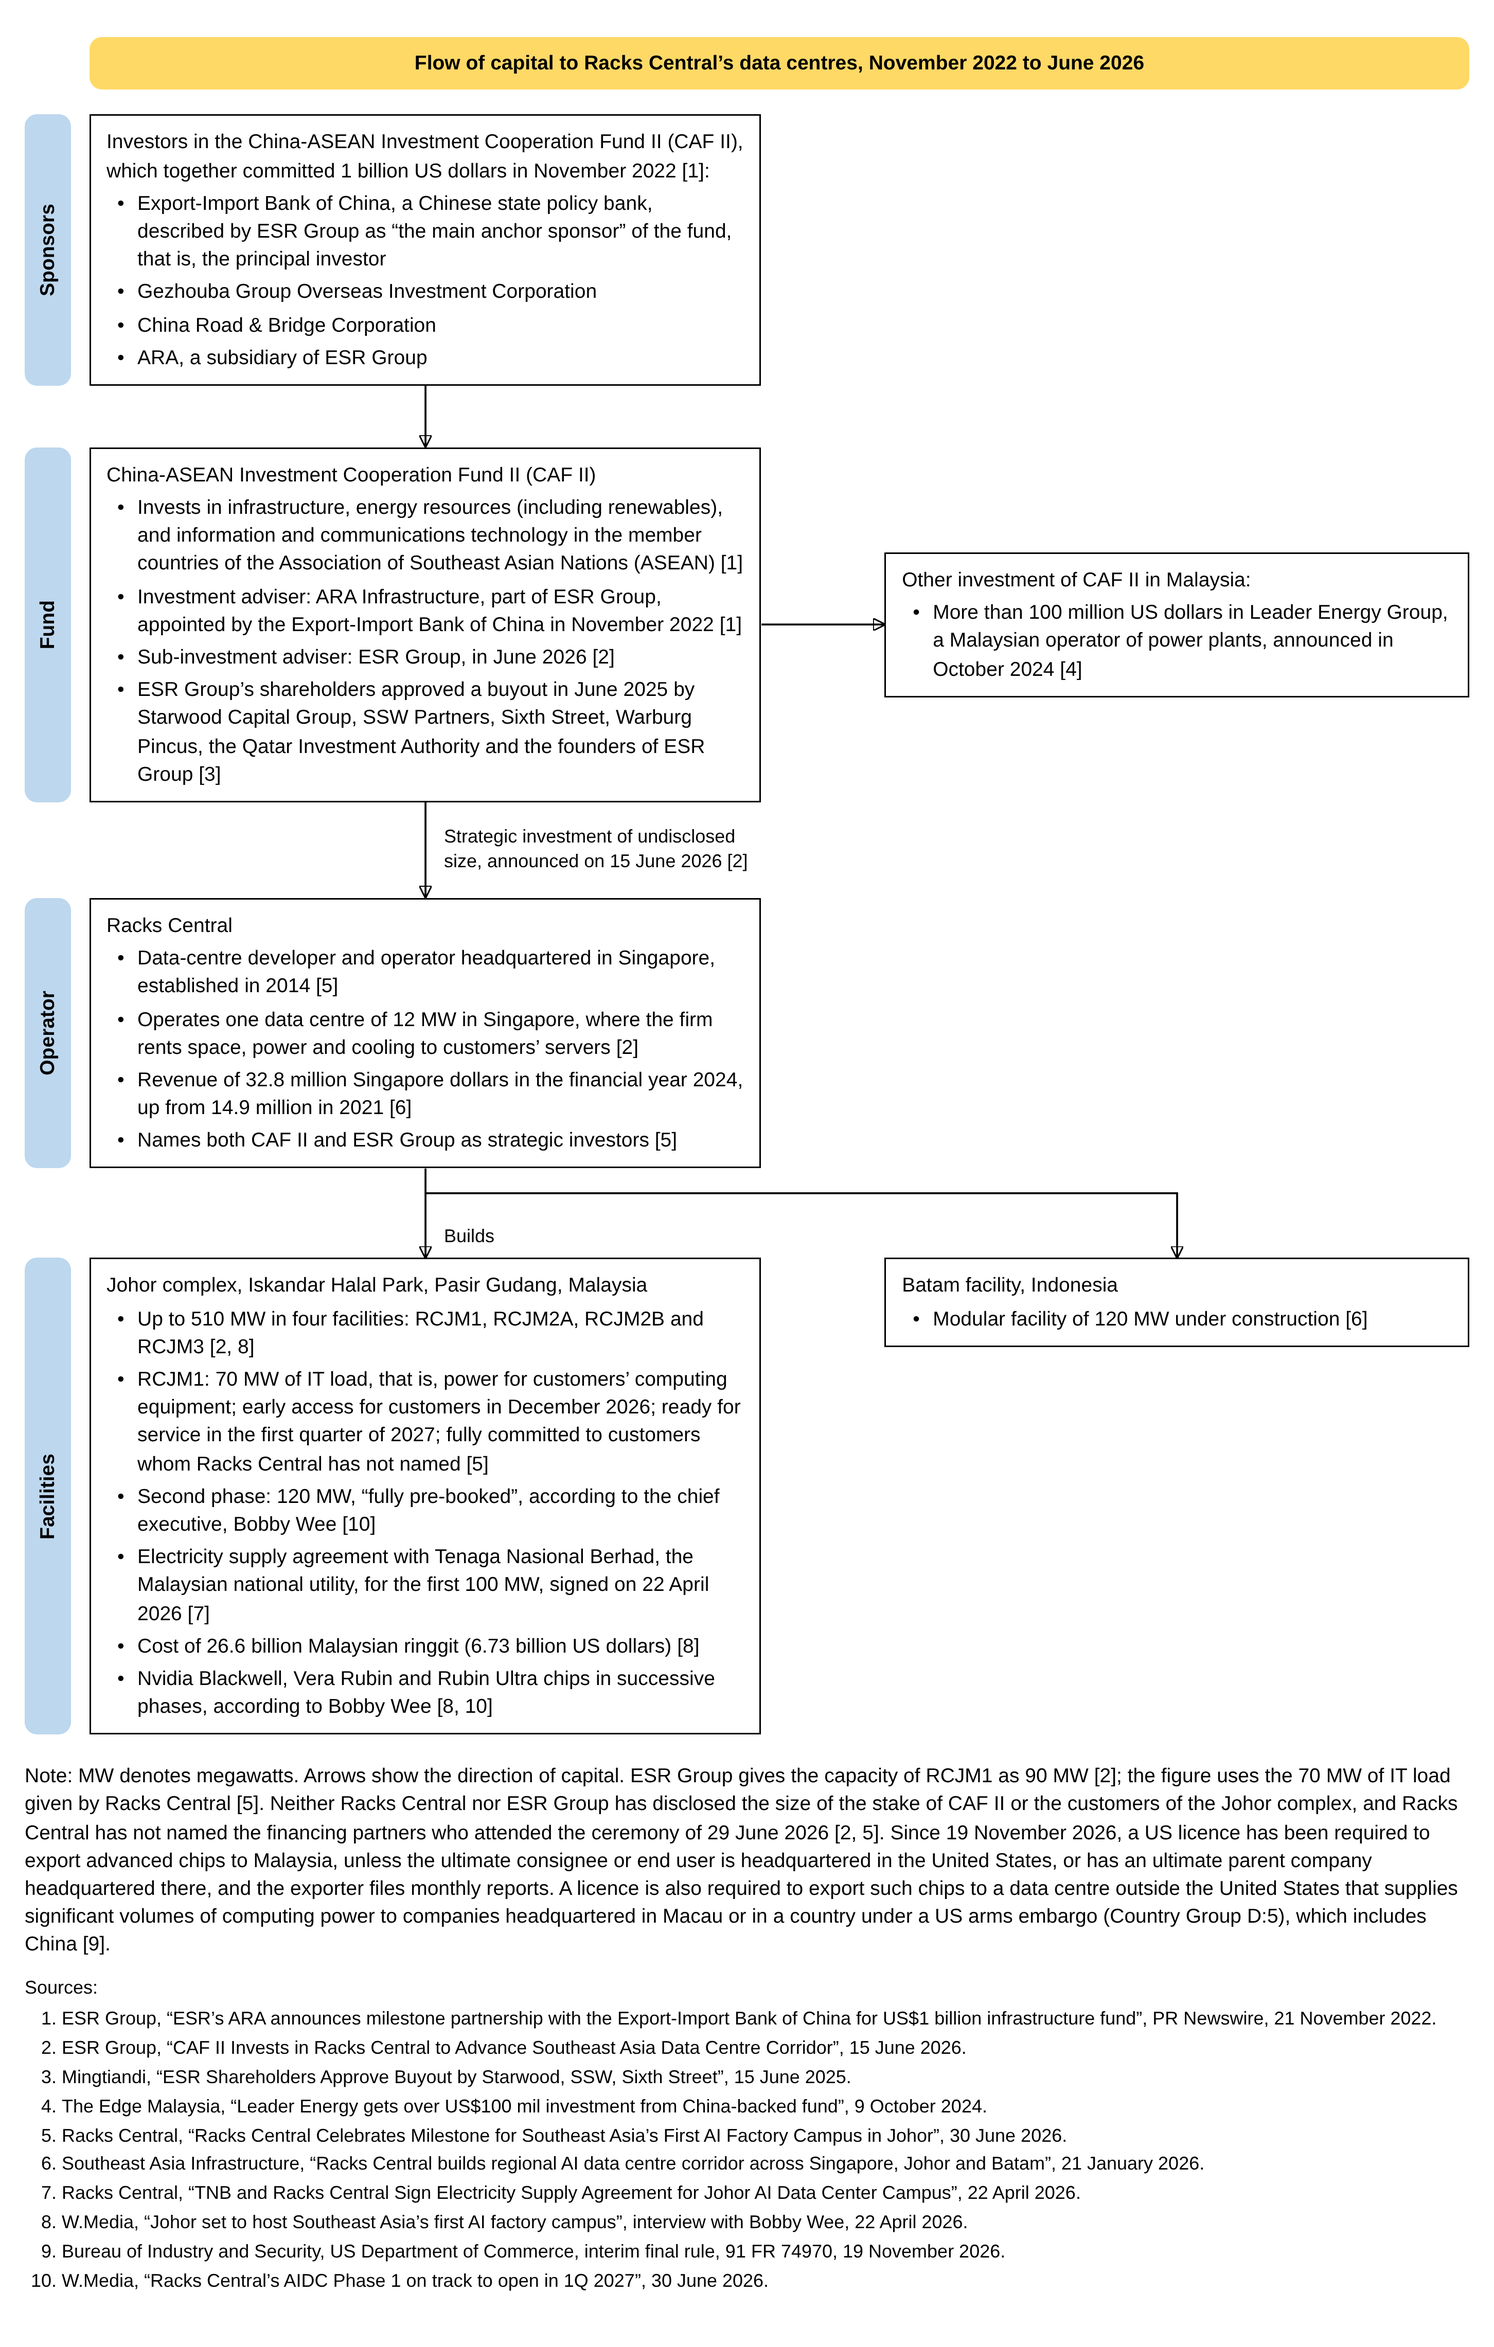
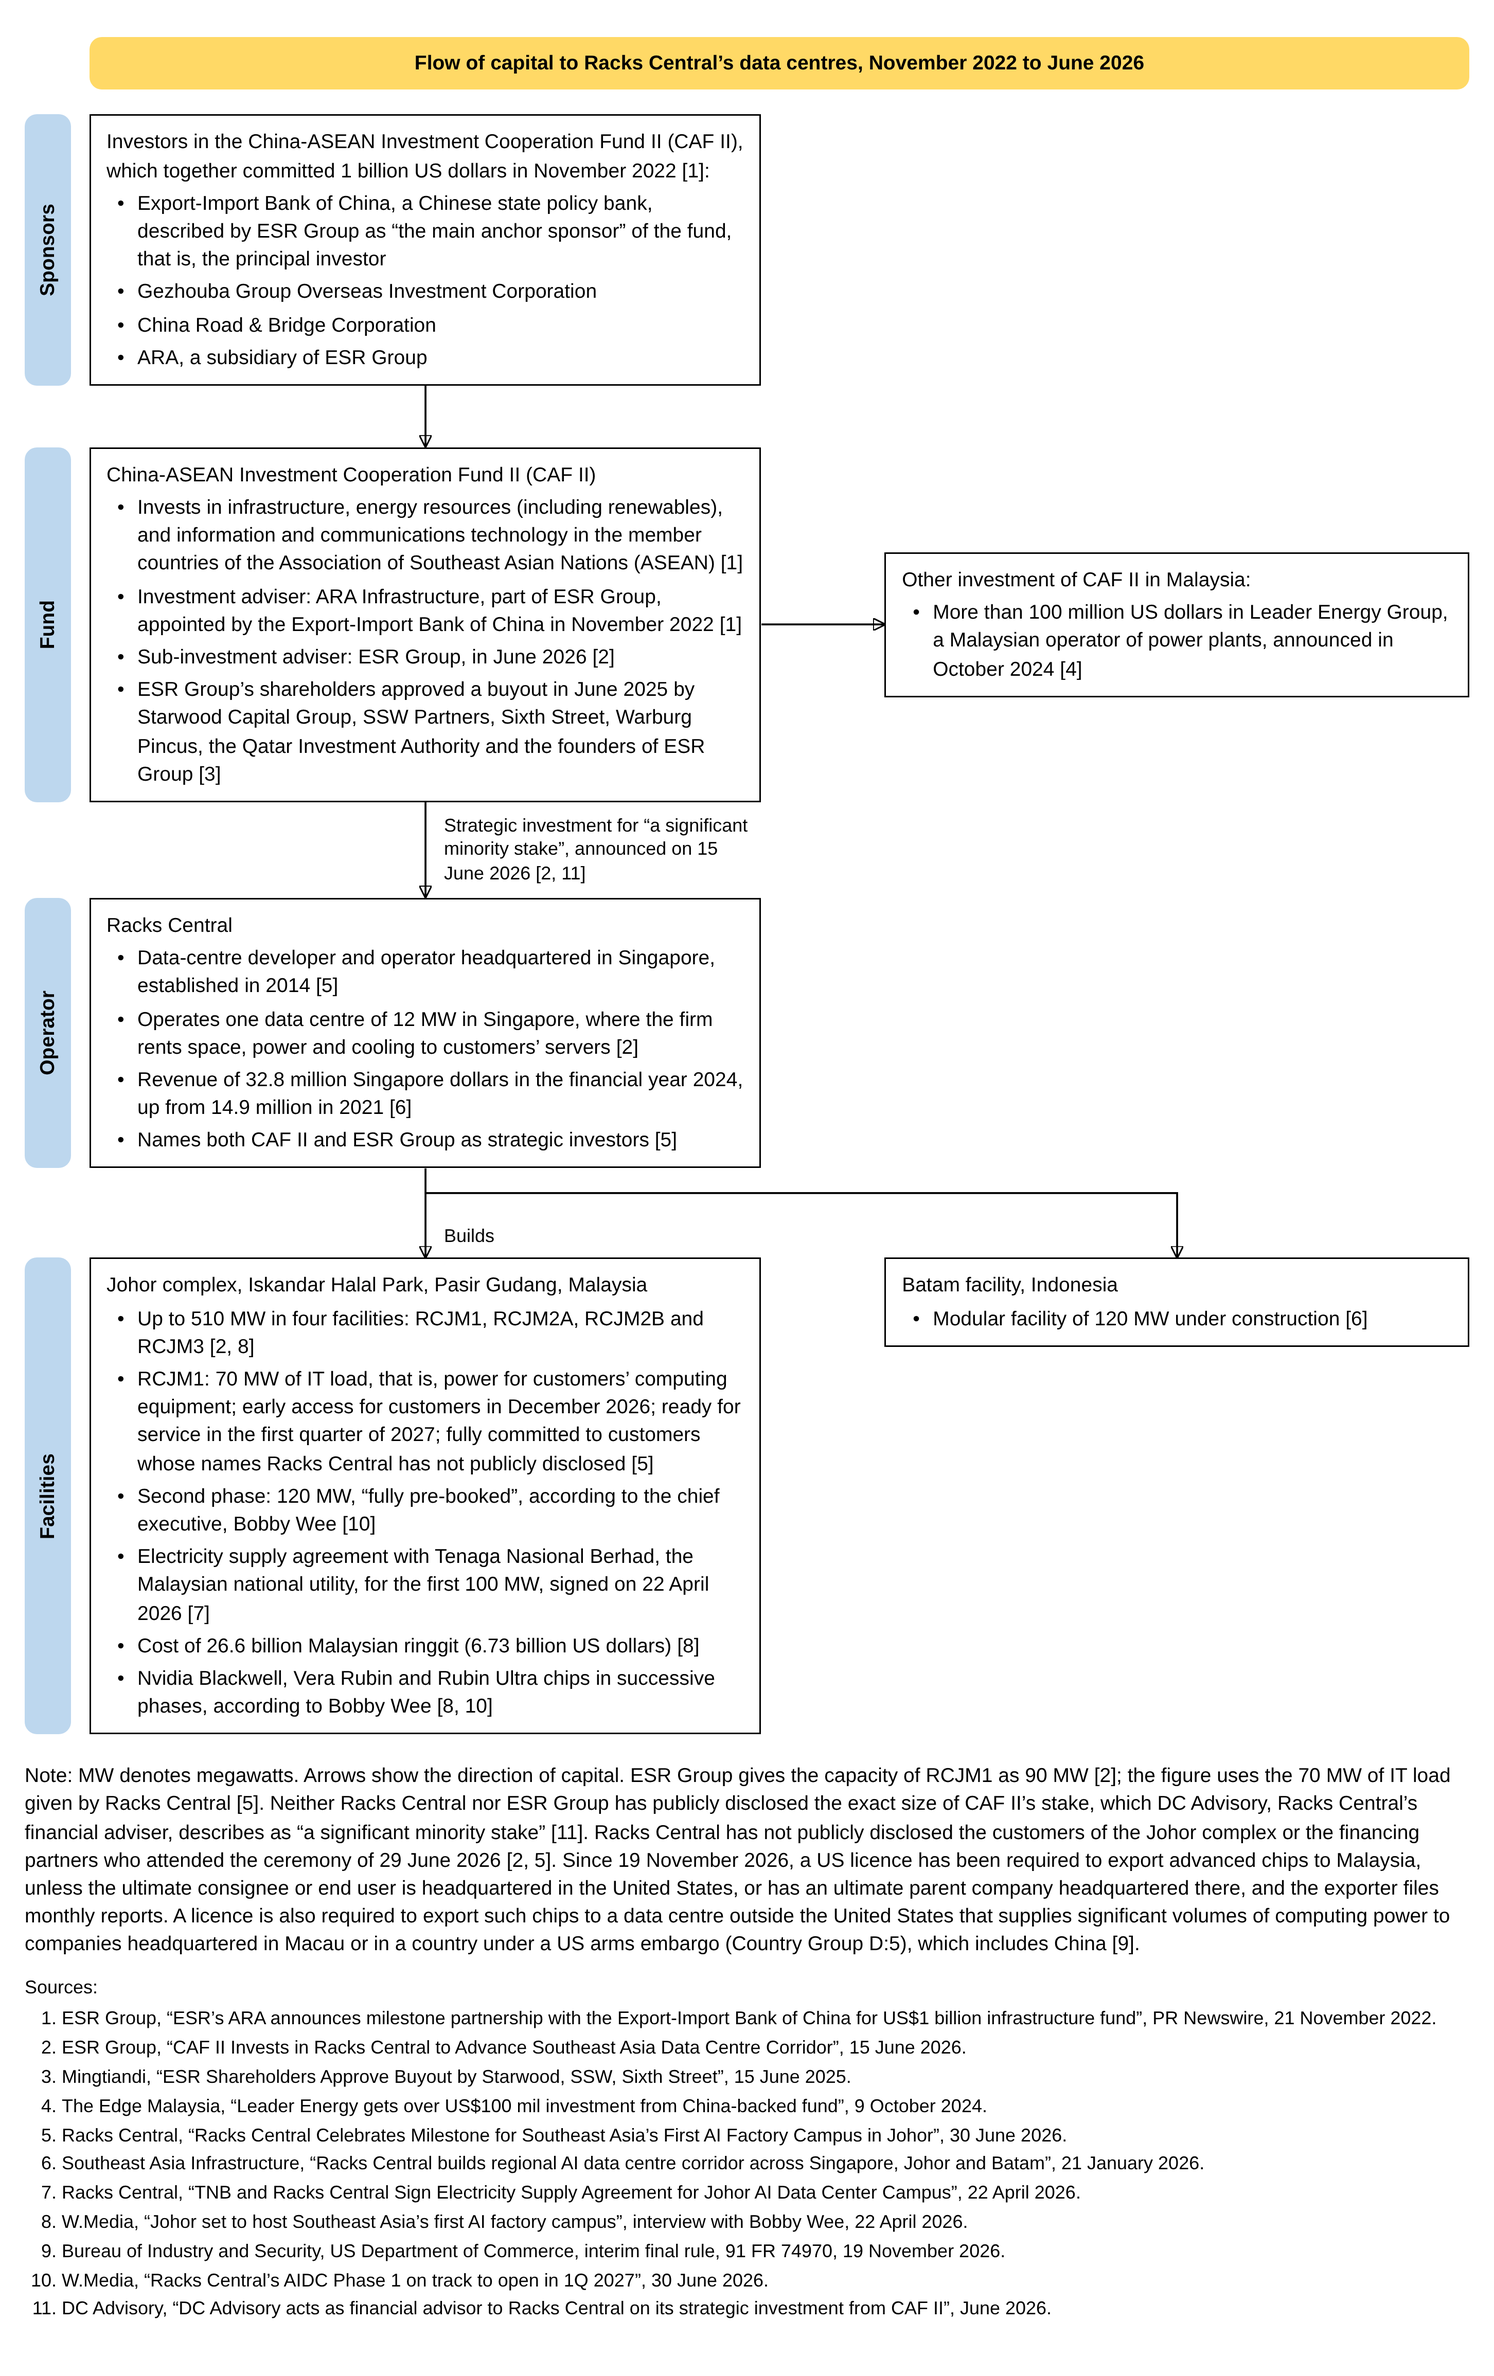
Describe CAF II's holding in Racks Central in the financing-chain figure
Use DC Advisory's description, a significant minority stake, in the arrow
label and the note, add DC Advisory as source 11, and say that Racks
Central has not publicly disclosed its customers or financing partners.

diff --git a/site/figures/financing-chain.html b/site/figures/financing-chain.html
@@ -784,13 +784,13 @@ text-align:center;margin-bottom:16px}#fc-wrap .stage{grid-column:1;background:#b
 <div class="grid" id="grid">
   <div class="head">Flow of capital to Racks Central’s data centres, November 2022 to June 2026</div>
   <div class="stage" style="grid-row:2"><span>Sponsors</span></div><div class="stage" style="grid-row:4"><span>Fund</span></div><div class="stage" style="grid-row:6"><span>Operator</span></div><div class="stage" style="grid-row:8"><span>Facilities</span></div>
-  <div class="box" id="A" style="grid-column:2;grid-row:2;"><span class="first">Investors in the China-ASEAN Investment Cooperation Fund II (CAF II), which together committed 1 billion US dollars in November 2022 [1]:</span><span class="ln">Export-Import Bank of China, a Chinese state policy bank, described by ESR Group as “the main anchor sponsor” of the fund, that is, the principal investor</span><span class="ln">Gezhouba Group Overseas Investment Corporation</span><span class="ln">China Road &amp; Bridge Corporation</span><span class="ln">ARA, a subsidiary of ESR Group</span></div><div class="box" id="B" style="grid-column:2;grid-row:4;"><span class="first">China-ASEAN Investment Cooperation Fund II (CAF II)</span><span class="ln">Invests in infrastructure, energy resources (including renewables), and information and communications technology in the member countries of the Association of Southeast Asian Nations (ASEAN) [1]</span><span class="ln">Investment adviser: ARA Infrastructure, part of ESR Group, appointed by the Export-Import Bank of China in November 2022 [1]</span><span class="ln">Sub-investment adviser: ESR Group, in June 2026 [2]</span><span class="ln">ESR Group’s shareholders approved a buyout in June 2025 by Starwood Capital Group, SSW Partners, Sixth Street, Warburg Pincus, the Qatar Investment Authority and the founders of ESR Group [3]</span></div><div class="box" id="D" style="grid-column:4;grid-row:4;align-self:center"><span class="first">Other investment of CAF II in Malaysia:</span><span class="ln">More than 100 million US dollars in Leader Energy Group, a Malaysian operator of power plants, announced in October 2024 [4]</span></div><div class="box" id="F" style="grid-column:2;grid-row:6;"><span class="first">Racks Central</span><span class="ln">Data-centre developer and operator headquartered in Singapore, established in 2014 [5]</span><span class="ln">Operates one data centre of 12 MW in Singapore, where the firm rents space, power and cooling to customers’ servers [2]</span><span class="ln">Revenue of 32.8 million Singapore dollars in the financial year 2024, up from 14.9 million in 2021 [6]</span><span class="ln">Names both CAF II and ESR Group as strategic investors [5]</span></div><div class="box" id="H" style="grid-column:2;grid-row:8;"><span class="first">Johor complex, Iskandar Halal Park, Pasir Gudang, Malaysia</span><span class="ln">Up to 510 MW in four facilities: RCJM1, RCJM2A, RCJM2B and RCJM3 [2, 8]</span><span class="ln">RCJM1: 70 MW of IT load, that is, power for customers’ computing equipment; early access for customers in December 2026; ready for service in the first quarter of 2027; fully committed to customers whom Racks Central has not named [5]</span><span class="ln">Second phase: 120 MW, “fully pre-booked”, according to the chief executive, Bobby Wee [10]</span><span class="ln">Electricity supply agreement with Tenaga Nasional Berhad, the Malaysian national utility, for the first 100 MW, signed on 22 April 2026 [7]</span><span class="ln">Cost of 26.6 billion Malaysian ringgit (6.73 billion US dollars) [8]</span><span class="ln">Nvidia Blackwell, Vera Rubin and Rubin Ultra chips in successive phases, according to Bobby Wee [8, 10]</span></div><div class="box" id="I" style="grid-column:4;grid-row:8;align-self:start"><span class="first">Batam facility, Indonesia</span><span class="ln">Modular facility of 120 MW under construction [6]</span></div>
-  <div class="alab" style="grid-row:5;"><span>Strategic investment of undisclosed size, announced on 15 June 2026 [2]</span></div><div class="alab" style="grid-row:7;align-items:flex-end;padding-bottom:6px"><span>Builds</span></div>
+  <div class="box" id="A" style="grid-column:2;grid-row:2;"><span class="first">Investors in the China-ASEAN Investment Cooperation Fund II (CAF II), which together committed 1 billion US dollars in November 2022 [1]:</span><span class="ln">Export-Import Bank of China, a Chinese state policy bank, described by ESR Group as “the main anchor sponsor” of the fund, that is, the principal investor</span><span class="ln">Gezhouba Group Overseas Investment Corporation</span><span class="ln">China Road &amp; Bridge Corporation</span><span class="ln">ARA, a subsidiary of ESR Group</span></div><div class="box" id="B" style="grid-column:2;grid-row:4;"><span class="first">China-ASEAN Investment Cooperation Fund II (CAF II)</span><span class="ln">Invests in infrastructure, energy resources (including renewables), and information and communications technology in the member countries of the Association of Southeast Asian Nations (ASEAN) [1]</span><span class="ln">Investment adviser: ARA Infrastructure, part of ESR Group, appointed by the Export-Import Bank of China in November 2022 [1]</span><span class="ln">Sub-investment adviser: ESR Group, in June 2026 [2]</span><span class="ln">ESR Group’s shareholders approved a buyout in June 2025 by Starwood Capital Group, SSW Partners, Sixth Street, Warburg Pincus, the Qatar Investment Authority and the founders of ESR Group [3]</span></div><div class="box" id="D" style="grid-column:4;grid-row:4;align-self:center"><span class="first">Other investment of CAF II in Malaysia:</span><span class="ln">More than 100 million US dollars in Leader Energy Group, a Malaysian operator of power plants, announced in October 2024 [4]</span></div><div class="box" id="F" style="grid-column:2;grid-row:6;"><span class="first">Racks Central</span><span class="ln">Data-centre developer and operator headquartered in Singapore, established in 2014 [5]</span><span class="ln">Operates one data centre of 12 MW in Singapore, where the firm rents space, power and cooling to customers’ servers [2]</span><span class="ln">Revenue of 32.8 million Singapore dollars in the financial year 2024, up from 14.9 million in 2021 [6]</span><span class="ln">Names both CAF II and ESR Group as strategic investors [5]</span></div><div class="box" id="H" style="grid-column:2;grid-row:8;"><span class="first">Johor complex, Iskandar Halal Park, Pasir Gudang, Malaysia</span><span class="ln">Up to 510 MW in four facilities: RCJM1, RCJM2A, RCJM2B and RCJM3 [2, 8]</span><span class="ln">RCJM1: 70 MW of IT load, that is, power for customers’ computing equipment; early access for customers in December 2026; ready for service in the first quarter of 2027; fully committed to customers whose names Racks Central has not publicly disclosed [5]</span><span class="ln">Second phase: 120 MW, “fully pre-booked”, according to the chief executive, Bobby Wee [10]</span><span class="ln">Electricity supply agreement with Tenaga Nasional Berhad, the Malaysian national utility, for the first 100 MW, signed on 22 April 2026 [7]</span><span class="ln">Cost of 26.6 billion Malaysian ringgit (6.73 billion US dollars) [8]</span><span class="ln">Nvidia Blackwell, Vera Rubin and Rubin Ultra chips in successive phases, according to Bobby Wee [8, 10]</span></div><div class="box" id="I" style="grid-column:4;grid-row:8;align-self:start"><span class="first">Batam facility, Indonesia</span><span class="ln">Modular facility of 120 MW under construction [6]</span></div>
+  <div class="alab" style="grid-row:5;"><span>Strategic investment for “a significant minority stake”, announced on 15 June 2026 [2, 11]</span></div><div class="alab" style="grid-row:7;align-items:flex-end;padding-bottom:6px"><span>Builds</span></div>
   <svg class="wires" id="wires" aria-hidden="true"><defs><marker id="ah" viewBox="0 0 10 10" refX="9.5" refY="5"
   markerWidth="8" markerHeight="8" markerUnits="userSpaceOnUse" orient="auto"><path d="M0,0 L10,5 L0,10 z" fill="#000"/>
   </marker></defs><g id="paths"></g></svg>
 </div>
-</div><p class="note">Note: MW denotes megawatts. Arrows show the direction of capital. ESR Group gives the capacity of RCJM1 as 90 MW [2]; the figure uses the 70 MW of IT load given by Racks Central [5]. Neither Racks Central nor ESR Group has disclosed the size of the stake of CAF II or the customers of the Johor complex, and Racks Central has not named the financing partners who attended the ceremony of 29 June 2026 [2, 5]. Since 19 November 2026, a US licence has been required to export advanced chips to Malaysia, unless the ultimate consignee or end user is headquartered in the United States, or has an ultimate parent company headquartered there, and the exporter files monthly reports. A licence is also required to export such chips to a data centre outside the United States that supplies significant volumes of computing power to companies headquartered in Macau or in a country under a US arms embargo (Country Group D:5), which includes China [9].</p><div class="src">Sources:<ol><li>ESR Group, “ESR’s ARA announces milestone partnership with the Export-Import Bank of China for US$1 billion infrastructure fund”, PR Newswire, 21 November 2022.</li><li>ESR Group, “CAF II Invests in Racks Central to Advance Southeast Asia Data Centre Corridor”, 15 June 2026.</li><li>Mingtiandi, “ESR Shareholders Approve Buyout by Starwood, SSW, Sixth Street”, 15 June 2025.</li><li>The Edge Malaysia, “Leader Energy gets over US$100 mil investment from China-backed fund”, 9 October 2024.</li><li>Racks Central, “Racks Central Celebrates Milestone for Southeast Asia’s First AI Factory Campus in Johor”, 30 June 2026.</li><li>Southeast Asia Infrastructure, “Racks Central builds regional AI data centre corridor across Singapore, Johor and Batam”, 21 January 2026.</li><li>Racks Central, “TNB and Racks Central Sign Electricity Supply Agreement for Johor AI Data Center Campus”, 22 April 2026.</li><li>W.Media, “Johor set to host Southeast Asia’s first AI factory campus”, interview with Bobby Wee, 22 April 2026.</li><li>Bureau of Industry and Security, US Department of Commerce, interim final rule, 91 FR 74970, 19 November 2026.</li><li>W.Media, “Racks Central’s AIDC Phase 1 on track to open in 1Q 2027”, 30 June 2026.</li></ol></div></div></div>
+</div><p class="note">Note: MW denotes megawatts. Arrows show the direction of capital. ESR Group gives the capacity of RCJM1 as 90 MW [2]; the figure uses the 70 MW of IT load given by Racks Central [5]. Neither Racks Central nor ESR Group has publicly disclosed the exact size of CAF II’s stake, which DC Advisory, Racks Central’s financial adviser, describes as “a significant minority stake” [11]. Racks Central has not publicly disclosed the customers of the Johor complex or the financing partners who attended the ceremony of 29 June 2026 [2, 5]. Since 19 November 2026, a US licence has been required to export advanced chips to Malaysia, unless the ultimate consignee or end user is headquartered in the United States, or has an ultimate parent company headquartered there, and the exporter files monthly reports. A licence is also required to export such chips to a data centre outside the United States that supplies significant volumes of computing power to companies headquartered in Macau or in a country under a US arms embargo (Country Group D:5), which includes China [9].</p><div class="src">Sources:<ol><li>ESR Group, “ESR’s ARA announces milestone partnership with the Export-Import Bank of China for US$1 billion infrastructure fund”, PR Newswire, 21 November 2022.</li><li>ESR Group, “CAF II Invests in Racks Central to Advance Southeast Asia Data Centre Corridor”, 15 June 2026.</li><li>Mingtiandi, “ESR Shareholders Approve Buyout by Starwood, SSW, Sixth Street”, 15 June 2025.</li><li>The Edge Malaysia, “Leader Energy gets over US$100 mil investment from China-backed fund”, 9 October 2024.</li><li>Racks Central, “Racks Central Celebrates Milestone for Southeast Asia’s First AI Factory Campus in Johor”, 30 June 2026.</li><li>Southeast Asia Infrastructure, “Racks Central builds regional AI data centre corridor across Singapore, Johor and Batam”, 21 January 2026.</li><li>Racks Central, “TNB and Racks Central Sign Electricity Supply Agreement for Johor AI Data Center Campus”, 22 April 2026.</li><li>W.Media, “Johor set to host Southeast Asia’s first AI factory campus”, interview with Bobby Wee, 22 April 2026.</li><li>Bureau of Industry and Security, US Department of Commerce, interim final rule, 91 FR 74970, 19 November 2026.</li><li>W.Media, “Racks Central’s AIDC Phase 1 on track to open in 1Q 2027”, 30 June 2026.</li><li>DC Advisory, “DC Advisory acts as financial advisor to Racks Central on its strategic investment from CAF II”, June 2026.</li></ol></div></div></div>
 <script>
 (function(){
   var grid=document.getElementById('grid'), g=document.getElementById('paths');
